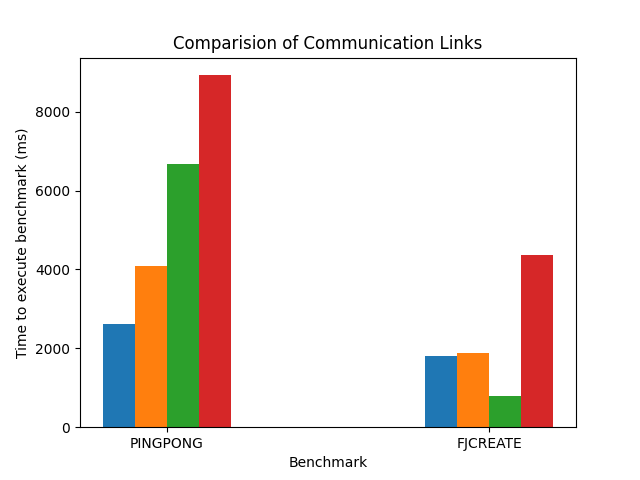
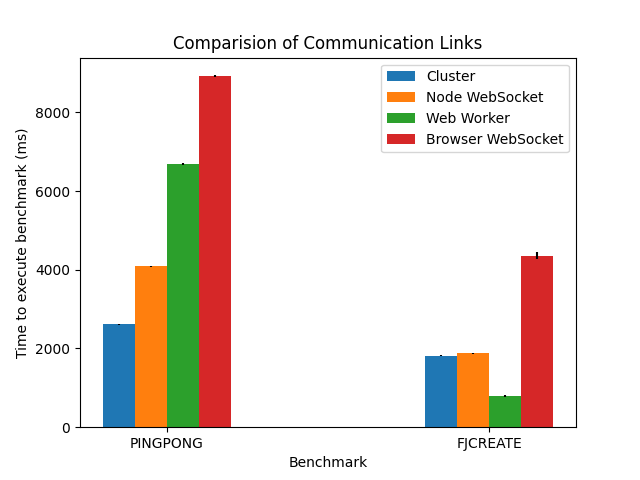
Made singlethread a vertical graph

Changed region(s): [[0.5938, 0.125, 0.9062, 0.3125], [0.0312, 0.2188, 0.125, 0.25], [0.0625, 0.375, 0.125, 0.4062]]

diff --git a/benchmarks/visualisations/timegraph.py b/benchmarks/visualisations/timegraph.py
@@ -1,5 +1,6 @@
 import pandas
 import matplotlib.pyplot as plt
+from matplotlib.pyplot import figure
 import numpy as np
 import os
 import re
@@ -22,39 +23,35 @@ for filename in os.listdir(node_directory):
 node_averages = [np.average(node_data[key]) for key in node_data.keys()]
 node_errors = [np.std(node_data[key])/np.sqrt(np.size(node_data[key])) for key in node_data.keys()]
 
-#Scrape browser results
-with open('../browser/singlethread/chrome_debug.log') as f:
-    for line in f.readlines():
-        sanitized_line = line.strip()
-        if '.js ' in sanitized_line:
-            #Get benchmark name
-            search = 'source: http://'
-            benchmark = sanitized_line[sanitized_line.find(search)+len(search):]
-            benchmark = benchmark[benchmark.find('/')+1:benchmark.find('.')].upper()
+# #Scrape browser results
+# with open('../browser/singlethread/chrome_debug.log') as f:
+#     for line in f.readlines():
+#         sanitized_line = line.strip()
+#         if '.js ' in sanitized_line:
+#             #Get benchmark name
+#             search = 'source: http://'
+#             benchmark = sanitized_line[sanitized_line.find(search)+len(search):]
+#             benchmark = benchmark[benchmark.find('/')+1:benchmark.find('.')].upper()
             
-            reading = sanitized_line[sanitized_line.find('"')+1:sanitized_line.find('"', sanitized_line.find('"')+1)]
-            browser_data[benchmark].append(int(reading))
+#             reading = sanitized_line[sanitized_line.find('"')+1:sanitized_line.find('"', sanitized_line.find('"')+1)]
+#             browser_data[benchmark].append(int(reading))
             
-#Compute browser results to put on graph
-browser_averages = [np.average(browser_data[key]) for key in browser_data.keys()]
-browser_errors = [np.std(browser_data[key])/np.sqrt(np.size(browser_data[key])) for key in browser_data.keys()]
-   
-#Plot graph and make it look nice
-df = pandas.DataFrame(dict(graph=node_data.keys(),
-                           n=node_averages, m=browser_averages)) 
+# #Compute browser results to put on graph
+# browser_averages = [np.average(browser_data[key]) for key in browser_data.keys()]
+# browser_errors = [np.std(browser_data[key])/np.sqrt(np.size(browser_data[key])) for key in browser_data.keys()] 
 
-ind = np.arange(len(df))
-width = 0.4
+browser_averages = [1,2,3,4,5,6,7,8]
+browser_errors = [1,2,3,4,5,6,7,8]
 
-fig, ax = plt.subplots()
-fig.set_size_inches(10, 5, forward=True)
-ax.barh(ind, df.n, width, color='green', label='Node', xerr=node_errors)
-ax.barh(ind + width, df.m, width, color='blue', label='Browser', xerr=browser_errors)
+X_axis = np.arange(len(node_averages))
+width=0.2
+figure(figsize=(8, 7), dpi=80)
+plt.bar(X_axis-0.1, node_averages, width, color='green', label='Node', yerr=node_errors)
+plt.bar(X_axis+0.1, browser_averages, width, color='blue', label='Browser', yerr=browser_errors)
 
-ax.set(yticks=ind + width, yticklabels=df.graph, ylim=[2*width - 1, len(df)])
-ax.legend()
-
+plt.xticks(X_axis, list(node_data.keys()), rotation=45)
 plt.title('Single Threaded Benchmarks Node.js and Browser Comparision')
-plt.ylabel('Benchmark')
-plt.xlabel('Time to execute (ms)')
+plt.xlabel('Benchmark')
+plt.ylabel('Time to execute (ms)')
+plt.legend()
 plt.savefig('singlethread.png')

diff --git a/benchmarks/visualisations/linkcomparision.py b/benchmarks/visualisations/linkcomparision.py
@@ -55,14 +55,15 @@ Zboys = [20,30]
   
 X_axis = np.arange(len(keys))
   
-plt.bar(X_axis - 0.15, [data[0], data[4]], 0.1, label = 'Cluster')
-plt.bar(X_axis - 0.05, [data[1], data[5]], 0.1, label = 'Node WebSocket')  
-plt.bar(X_axis + 0.05, [data[2], data[6]], 0.1, label = 'Web Worker')
-plt.bar(X_axis + 0.15, [data[3], data[7]], 0.1, label = 'Browser WebSocket')
+plt.bar(X_axis - 0.15, [data[0], data[4]], 0.1, label = 'Cluster', yerr=[errors[0], errors[4]])
+plt.bar(X_axis - 0.05, [data[1], data[5]], 0.1, label = 'Node WebSocket', yerr=[errors[1], errors[5]])  
+plt.bar(X_axis + 0.05, [data[2], data[6]], 0.1, label = 'Web Worker', yerr=[errors[2], errors[6]])
+plt.bar(X_axis + 0.15, [data[3], data[7]], 0.1, label = 'Browser WebSocket', yerr=[errors[3], errors[7]])
   
 plt.xticks(X_axis, keys)
 plt.title('Comparision of Communication Links')
 plt.xlabel('Benchmark')
 plt.ylabel('Time to execute benchmark (ms)')
+plt.legend()
 
 plt.savefig('link.png')
